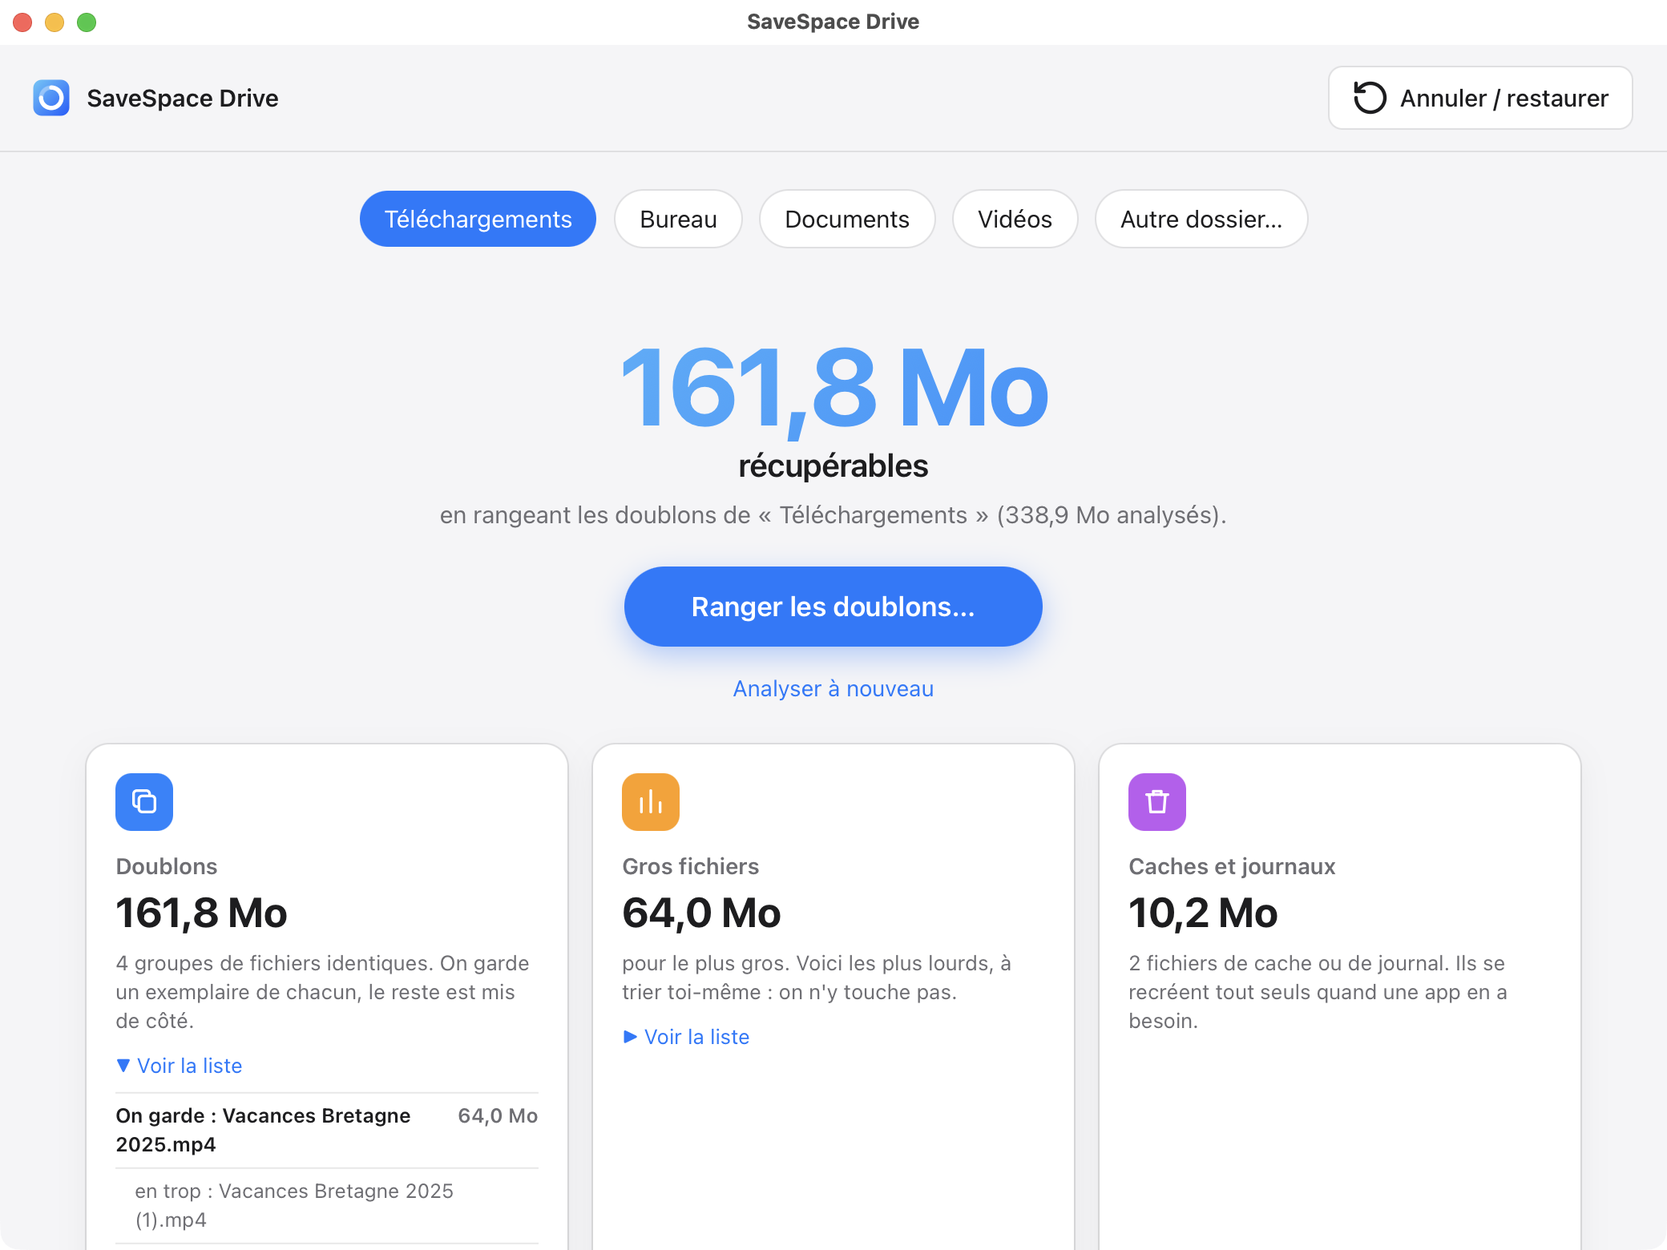
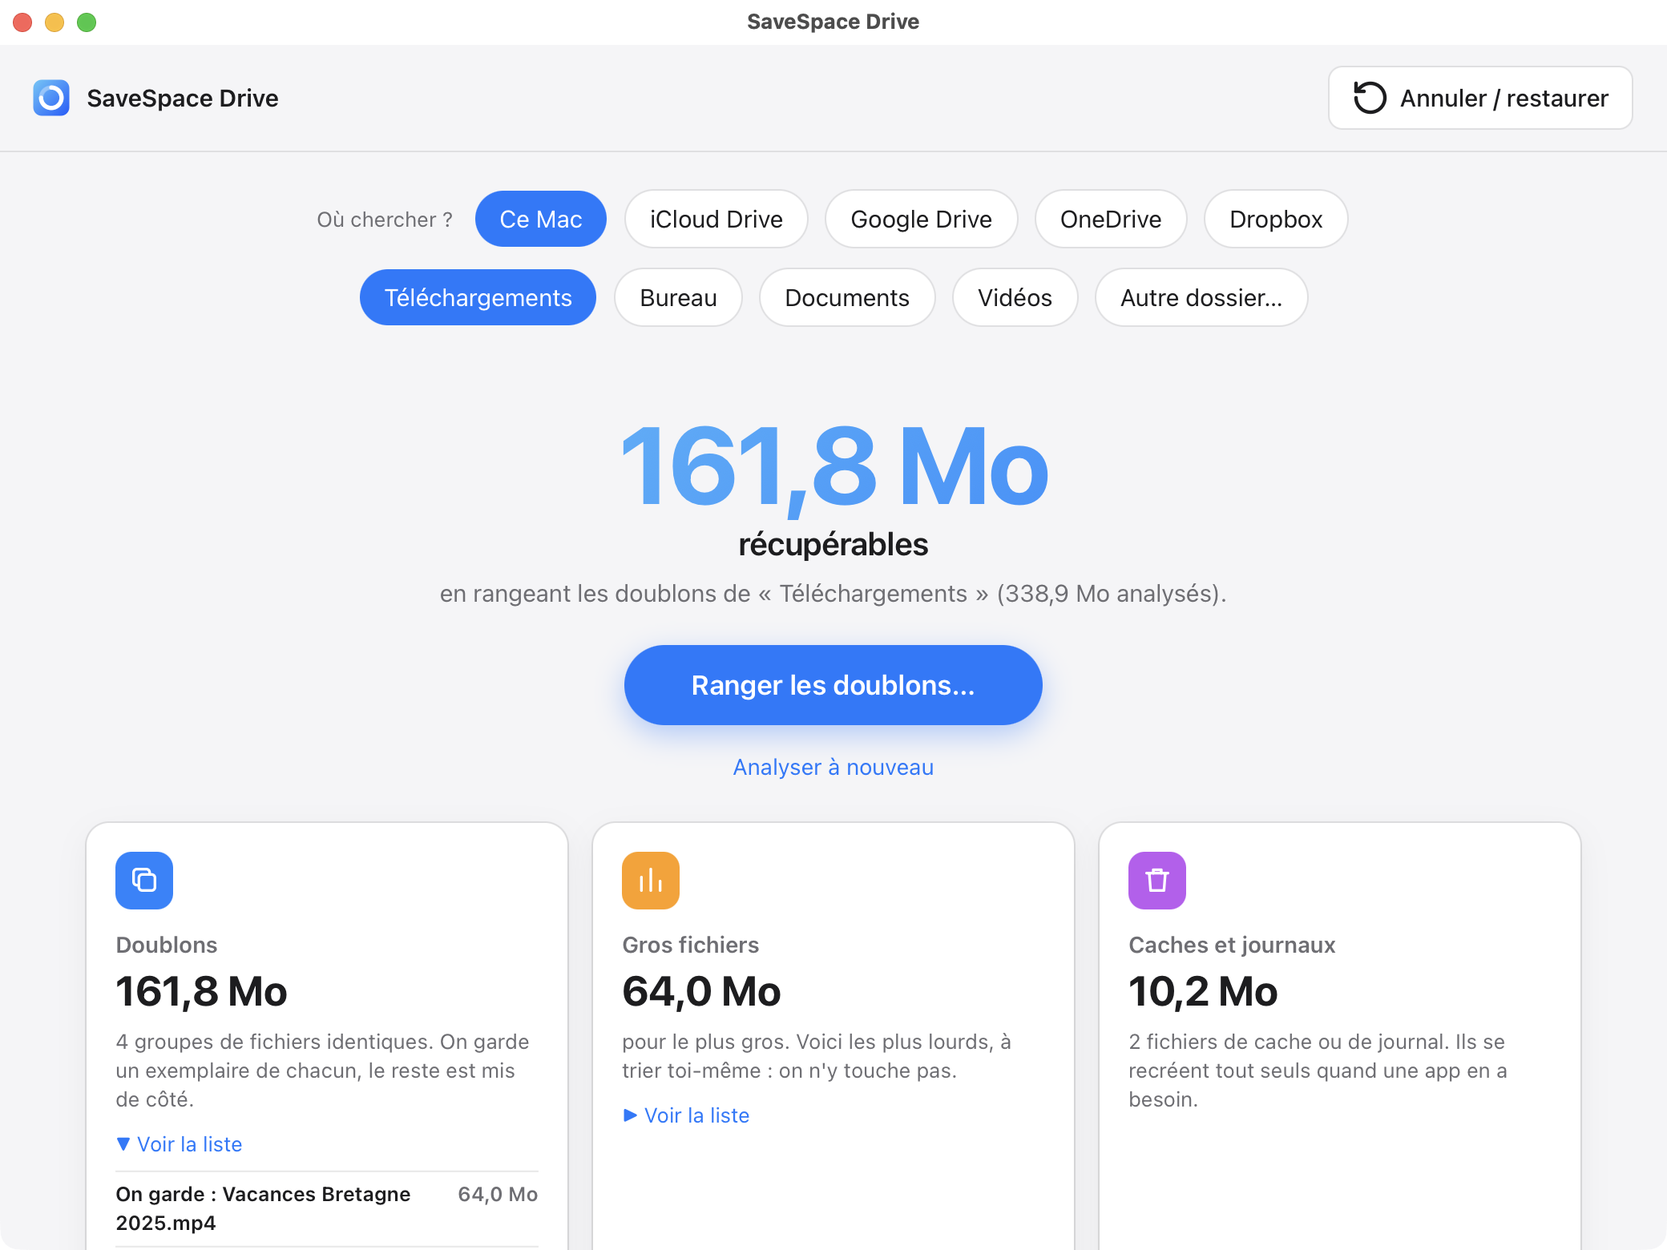
Drives : iCloud Drive, Google Drive, OneDrive, Dropbox (rclone officiel inclus)
- « Où chercher ? » : Ce Mac, iCloud Drive, Google Drive, OneDrive, Dropbox ; mêmes cartes et même confirmation.
- iCloud Drive : dossier local (seul coin de ~/Library ouvert par la garde) ; un fichier seulement dans iCloud
  n'est jamais ouvert (règle du hotfix 0.1.1) ; avertissement : mettre de côté le retire de tous les appareils.
- drives.py : connexion par le flux OAuth de rclone (client gratuit par défaut, config en 600 dans le dossier de
  l'app, sortie de rclone jamais affichée) ; analyse sans téléchargement (lsjson --hash-type md5/quickxor/dropbox
  + about) ; corbeille du service seulement, forcée par option, --max-delete = la liste exacte, liste relue
  juste avant, type sans corbeille refusé ; restaurer = lien vers la corbeille du service ; Photos/Gmail : rapport.
- paquet/construire.py : rclone v1.75.1 officiel téléchargé, SHA256 épinglé ET publié dans SHA256SUMS
  (signature PGP vérifiée), Mac arm64+amd64 réunis par lipo, Windows amd64 ; licence dans THIRD_PARTY.
- Tests : 63 verts (40 sur main 0.1.0, 44 sur 0.1.1) ; tests/mutants.py : 26/26 mutants tués.
- Captures 1 à 13 (clair/sombre) avec de fausses données ; docs/ESSAI_PROPRIETAIRE_DRIVES.md.

diff --git a/paquet/captures.py b/paquet/captures.py
@@ -1,7 +1,7 @@
 """Captures d'écran de la fenêtre (outil de développement, Mac seulement, jamais livré dans l'app).
 Tout se passe dans une MAISON DE DÉMO synthétique (HOME remplacé) : aucun fichier réel n'est lu ni déplacé.
 Usage : python paquet/captures.py DOSSIER_DEMO DOSSIER_CAPTURES"""
-import os, subprocess, sys, time
+import json, os, subprocess, sys, time
 from pathlib import Path
 
 DEMO, SORTIE = Path(sys.argv[1]).resolve(), Path(sys.argv[2]).resolve()
@@ -14,6 +14,13 @@ FICHIERS = {  # chemin : (graine, Mo) — même graine = mêmes octets = doublon
     "Downloads/Ancien Mac/Library/Caches/com.apple.Safari/Cache.db": (7, 9), "Downloads/Ancien Mac/Library/Logs/install.log": (8, 1.2),
     "Downloads/Musique/Concert.m4a": (9, 18), "Desktop/notes.txt": (10, 0.01), "Documents/CV.pdf": (11, 0.2), "Movies/film.mov": (12, 5),
 }
+ICLOUD = "Library/Mobile Documents/com~apple~CloudDocs/"
+FICHIERS.update({ICLOUD + k: v for k, v in {"Devis cuisine.pdf": (13, 0.6), "Maison/Devis cuisine (1).pdf": (13, 0.6),
+                                             "Photos/Noël.heic": (14, 3.1), "Photos/Copie de Noël.heic": (14, 3.1)}.items()})
+NUAGE = {ICLOUD + "Anciennes vidéos/Vacances 2019.mov": 900, ICLOUD + "Anciennes vidéos/Anniversaire.mov": 640}  # Mo, creux
+DRIVE = [("Photos 2023/IMG_0412.JPG", 4.2, "a"), ("Sauvegarde iPhone/IMG_0412.JPG", 4.2, "a"), ("Vidéos/Mariage Julie.mp4", 820, "b"),
+         ("Vidéos/Mariage Julie (1).mp4", 820, "b"), ("Contrat location.pdf", 1.1, "c"), ("Documents/Copie de Contrat location.pdf", 1.1, "c"),
+         ("Archives/Ancien Mac.zip", 2300, "d"), ("Musique/Concert.m4a", 18, "e")]  # faux Google Drive : (chemin, Mo, empreinte)
 
 
 def demo():
@@ -24,6 +31,10 @@ def demo():
             bloc = (bytes([graine]) * 64) * 16384  # 1 Mio déterministe par graine
             octets = int(mo * 1_000_000)
             p.write_bytes((bloc * (octets // len(bloc) + 1))[:octets])
+    for rel, mo in NUAGE.items():
+        (DEMO / rel).parent.mkdir(parents=True, exist_ok=True)
+        with open(DEMO / rel, "wb") as f:
+            f.truncate(mo * 1_000_000)  # fichier creux : « seulement dans iCloud » simulé ci-dessous
 
 
 demo()
@@ -31,7 +42,23 @@ os.environ["HOME"] = str(DEMO)  # avant tout import : Path.home() pointe sur la 
 SORTIE.mkdir(parents=True, exist_ok=True)
 import Quartz, webview  # noqa: E402
 from PyObjCTools import AppHelper  # noqa: E402
-from savespace_drive import bureau, app  # noqa: E402
+from savespace_drive import analyse, bureau, app, doublons, drives  # noqa: E402
+
+INOEUDS = {os.stat(DEMO / rel).st_ino for rel in NUAGE}  # ces fichiers se disent « seulement dans iCloud »
+analyse.dans_le_nuage = doublons.dans_le_nuage = lambda st: st.st_ino in INOEUDS
+FAUX = DEMO / "faux_rclone"  # faux Google Drive : aucun compte, aucun réseau (tests/faux_rclone.py)
+FAUX.mkdir(exist_ok=True)
+(FAUX / "faux_rclone.py").write_text((Path(__file__).resolve().parents[1] / "tests" / "faux_rclone.py").read_text())
+_run = subprocess.run
+drives.rclone = lambda: str(FAUX / "faux_rclone.py")
+drives.subprocess = type(sys)("faux_subprocess")
+drives.subprocess.TimeoutExpired, drives.subprocess.run = subprocess.TimeoutExpired, lambda a, **k: _run([sys.executable, *a], **k)
+
+
+def drive_neuf():
+    drives.conf().unlink(missing_ok=True)
+    (FAUX / "rclone.json").write_text(json.dumps({"fichiers": [{"p": c, "t": int(mo * 1_000_000), "h": h} for c, mo, h in DRIVE],
+                                                  "about": {"total": 15e9, "used": 8.0e9, "trashed": 0.4e9, "other": 5.2e9, "free": 1.8e9}}))
 
 
 def fenetre_id():
@@ -90,6 +117,35 @@ def pilote(f, s):
             photo(f"5_rangement_fait{suffixe}.png")
             f.evaluate_js("document.getElementById('restaurer').click()")
             attendre(f, "document.getElementById('titre').textContent=='Tout est revenu'")
+            f.evaluate_js("choisirLieu('icloud')")
+            photo(f"6_icloud{suffixe}.png")
+            f.evaluate_js("analyser()")
+            attendre(f, "!document.getElementById('cartes').hidden")
+            f.evaluate_js("document.querySelector('#c-doublons details').open=true")
+            photo(f"7_icloud_resultat{suffixe}.png")
+            f.evaluate_js("preparer()")
+            attendre(f, "!document.getElementById('voile').hidden")
+            photo(f"8_icloud_confirmation{suffixe}.png")
+            f.evaluate_js("fermer()")
+            drive_neuf()
+            f.evaluate_js("E.gdrive.ok=false;E.rclone=true;choisirLieu('gdrive')")
+            photo(f"9_drive_connecter{suffixe}.png")
+            f.evaluate_js("connecter()")
+            attendre(f, "document.getElementById('principal').textContent=='Analyser'")
+            f.evaluate_js("analyser()")
+            attendre(f, "!document.getElementById('cartes').hidden")
+            f.evaluate_js("document.querySelector('#c-doublons details').open=true")
+            photo(f"10_drive_resultat{suffixe}.png")
+            f.evaluate_js("preparer()")
+            attendre(f, "!document.getElementById('voile').hidden")
+            photo(f"11_drive_confirmation{suffixe}.png")
+            f.evaluate_js("document.getElementById('f-oui').click()")
+            attendre(f, "document.getElementById('titre').textContent==\"C'est fait\"")
+            photo(f"12_drive_corbeille{suffixe}.png")
+            f.evaluate_js("document.getElementById('restaurer').click()")
+            attendre(f, "!document.getElementById('ext').hidden")
+            photo(f"13_drive_recuperer{suffixe}.png")
+            f.evaluate_js("choisirLieu('mac')")
     finally:
         s.fini = True
 

diff --git a/paquet/construire.py b/paquet/construire.py
@@ -1,20 +1,57 @@
 """Construit l'app de bureau avec PyInstaller (outil existant) — à lancer sur le système visé.
 Mac : dist/SaveSpace Drive.app puis dist/SaveSpace-Drive-<version>-mac.dmg (hdiutil, fourni avec macOS).
 Windows : dist/SaveSpace Drive.exe (un seul fichier) ; l'installeur se fait ensuite avec paquet/windows.iss (Inno Setup).
+Le moteur rclone (MIT) est inclus : binaire OFFICIEL téléchargé sur downloads.rclone.org, refusé si son SHA256 diffère
+de l'empreinte épinglée ici OU de celle publiée dans SHA256SUMS. Mac : les deux puces réunies (lipo). Aucun Homebrew.
 Usage : python paquet/construire.py   (variables facultatives : VERSION=0.1.1, ARCH=universal2)"""
-import os, plistlib, shutil, subprocess, sys
+import hashlib, io, os, plistlib, shutil, subprocess, sys, urllib.request, zipfile
 from pathlib import Path
 import PyInstaller.__main__
 
 RACINE = Path(__file__).resolve().parents[1]
 ICONE, DIST, TRAVAIL = RACINE / "paquet" / "icone", RACINE / "dist", RACINE / "build"
 NOM, VERSION = "SaveSpace Drive", os.environ.get("VERSION", "0.1.1").lstrip("v")
+RCLONE = "v1.75.1"  # empreintes relevées le 04/10/2026 dans https://downloads.rclone.org/v1.75.1/SHA256SUMS (signé PGP)
[3 lines of base64/hex data omitted]
+
+
+def _lire(url, delai):  # downloads.rclone.org refuse l'agent « Python-urllib » (403 mesuré)
+    return urllib.request.urlopen(urllib.request.Request(url, headers={"User-Agent": "savespace-drive-construire"}), timeout=delai).read()
+
+
+def rclone():
+    """Le rclone officiel, vérifié, prêt à inclure : build/rclone/rclone (Mac, universel) ou rclone.exe (Windows)."""
+    base = f"https://downloads.rclone.org/{RCLONE}"
+    publiees = _lire(f"{base}/SHA256SUMS", 60).decode().splitlines()
+    dossier, win = TRAVAIL / "rclone", sys.platform == "win32"
+    dossier.mkdir(parents=True, exist_ok=True)
+    pieces = []
+    for cible in ("windows-amd64",) if win else ("osx-arm64", "osx-amd64"):
+        nom = f"rclone-{RCLONE}-{cible}"
+        octets = _lire(f"{base}/{nom}.zip", 600)
+        h = hashlib.sha256(octets).hexdigest()
+        if h != RCLONE_ZIP[cible] or f"{h}  {nom}.zip" not in publiees:
+            raise SystemExit(f"{nom}.zip : SHA256 inattendu ({h}) — rien n'est construit")
+        with zipfile.ZipFile(io.BytesIO(octets)) as z:
+            (dossier / cible).write_bytes(z.read(f"{nom}/rclone" + (".exe" if win else "")))
+        pieces.append(str(dossier / cible))
+    final = dossier / ("rclone.exe" if win else "rclone")
+    if win:
+        os.replace(pieces[0], final)
+    else:
+        subprocess.run(["lipo", "-create", "-output", str(final), *pieces], check=True)
+    final.chmod(0o755)
+    print(f"rclone {RCLONE} vérifié (SHA256 épinglé = publié) : {final}")
+    return final
 
 
 def principal():
     args = [str(RACINE / "paquet" / "lanceur.py"), "--name", NOM, "--windowed", "--noconfirm", "--clean",
             "--distpath", str(DIST), "--workpath", str(TRAVAIL), "--specpath", str(TRAVAIL), "--paths", str(RACINE / "src"),
-            "--collect-data", "savespace_drive"]  # versions_gellees.json (doctor --strict)
+            "--collect-data", "savespace_drive",  # versions_gellees.json (doctor --strict)
+            "--add-binary", f"{rclone()}{os.pathsep}.", "--add-data", f"{RACINE / 'THIRD_PARTY'}{os.pathsep}THIRD_PARTY"]
     if sys.platform == "darwin":
         args += ["--icon", str(ICONE / "SaveSpace.icns"), "--osx-bundle-identifier", "io.github.savespacedrive"]
         args += ["--target-arch", os.environ["ARCH"]] if os.environ.get("ARCH") else []

diff --git a/tests/test_drives.py b/tests/test_drives.py
@@ -1,7 +1,7 @@
 """Drives : iCloud Drive (dossier local, fichiers pas téléchargés jamais ouverts) et Google Drive / OneDrive / Dropbox
 (rclone). Hermétique : HOME jetable, faux rclone (tests/faux_rclone.py) ou vrai rclone sur un remote alias LOCAL
 (remote_local.py). Aucun vrai compte n'est jamais touché."""
-import builtins, io, json, os, shutil, stat, sys
+import builtins, io, json, os, shutil, stat, subprocess, sys, types
 from pathlib import Path
 
 import pytest
@@ -40,6 +40,7 @@ def icloud(maison, monkeypatch):
         (d / rel).parent.mkdir(parents=True, exist_ok=True)
         (d / rel).write_bytes(octets)
     monkeypatch.setattr(sys, "platform", "darwin")
+    monkeypatch.setattr(drives, "rclone", lambda: None)  # page sans chercher rclone (shutil.which et faux « darwin »)
     return d
 
 
@@ -116,14 +117,11 @@ def faux(maison, tmp_path, monkeypatch):
     d = tmp_path / "faux"
     d.mkdir()
     shutil.copy(FAUX, d / "faux_rclone.py")
-    if os.name == "nt":
-        exe = d / "rclone.cmd"
-        exe.write_text(f'@"{sys.executable}" "{d / "faux_rclone.py"}" %*\n')
-    else:
-        exe = d / "rclone"
-        exe.write_text(f"#!{sys.executable}\n" + FAUX.read_text())
-        exe.chmod(0o755)
-    monkeypatch.setattr(drives, "rclone", lambda: str(exe))
+    exe, vrai_run = str(d / "faux_rclone.py"), subprocess.run
+    monkeypatch.setenv("APPDATA", str(maison / "AppData" / "Roaming"))  # Windows : la config reste dans la maison jetable
+    monkeypatch.setattr(drives, "rclone", lambda: exe)
+    monkeypatch.setattr(drives, "subprocess", types.SimpleNamespace(  # le faux rclone est un script : lancé par Python
+        TimeoutExpired=subprocess.TimeoutExpired, run=lambda argv, **k: vrai_run([sys.executable, *argv] if argv[0] == exe else argv, **k)))
     etat = d / "rclone.json"
 
     def poser(cle="gdrive", type_="drive", **e):

diff --git a/src/savespace_drive/app.py b/src/savespace_drive/app.py
@@ -311,7 +311,7 @@ footer{text-align:center;color:var(--doux);font-size:11.5px;padding:14px 20px;di
 <h2 id="t-caches">Caches et journaux</h2><div class="valeur"></div><p></p><details><summary>Voir la liste</summary><div class="liste"></div></details></div>
 </section><div id="note"></div>
 </main>
-<footer><span>Tout se passe sur ton ordinateur : rien n'est envoyé sur Internet.</span><span>{OUTILS}</span><button class="lien" id="quitter" style="margin:0;font-size:inherit">Quitter</button></footer>
+<footer><span>Rien n'est envoyé chez nous. Un drive en ligne n'est contacté que si tu le connectes, pour lire la liste de tes fichiers.</span><span>{OUTILS}</span><button class="lien" id="quitter" style="margin:0;font-size:inherit">Quitter</button></footer>
 <div id="voile" hidden><div class="feuille" role="dialog" aria-modal="true" aria-labelledby="f-titre">
 <h1 id="f-titre"></h1><p class="sous" id="f-texte" style="margin:0 0 14px;max-width:none"></p><div class="liste" id="f-liste"></div>
 <div class="actions"><button class="bouton2" id="f-non">Annuler</button><button class="principal" id="f-oui"></button></div></div></div>

diff --git a/README.md b/README.md
@@ -1,8 +1,8 @@
 # SaveSpace Drive
 
-Retrouve de la place sur ton ordinateur : doublons, gros fichiers et caches repérés en quelques
-secondes, rangés en un clic, annulables à tout moment. 100 % local, gratuit, open source (MIT).
-Aucune donnée ne quitte ta machine.
+Retrouve de la place sur ton ordinateur, ton iCloud Drive, ton Google Drive, OneDrive ou Dropbox :
+doublons, gros fichiers et caches repérés en quelques secondes, rangés en un clic, annulables. Gratuit,
+open source (MIT). Rien n'est envoyé chez nous ; un drive en ligne n'est contacté que si tu le connectes.
 
 ![Résultat d'une analyse](docs/captures/3_resultat.png)
 
@@ -32,12 +32,29 @@ dans les Issues.
    `quarantaine`.
 4. **Annuler / restaurer** remet tout en place, à l'identique (chaque fichier vérifié par empreinte).
 
+**Où chercher ?** Ce Mac, **iCloud Drive**, **Google Drive**, **OneDrive** ou **Dropbox**.
+- iCloud Drive : comme un dossier du Mac. Attention : mettre un fichier de côté le retire aussi de ton
+  iPhone et de tes autres appareils (il revient avec « Annuler / restaurer »).
+- Google Drive, OneDrive, Dropbox : **Connecter** ouvre la page de connexion du service dans ton navigateur
+  (l'app ne voit jamais ton mot de passe). L'analyse lit seulement la liste des fichiers et les empreintes
+  calculées par le service : **rien n'est téléchargé**. Les doublons vont dans la **corbeille du service**
+  (récupérables 30 jours sur son site), jamais effacés pour de bon. Le moteur gratuit rclone est inclus.
+
+![Google Drive : place récupérable](docs/captures/10_drive_resultat.png)
+
 ## Limites, en clair
 - La quarantaine reste sur le même disque : la place n'est libérée que quand tu la vides toi-même.
 - Les fichiers « seulement dans iCloud » (Bureau et Documents synchronisés, iCloud Drive) sont ignorés : jamais
   ouverts, donc jamais téléchargés ; ils sont comptés à part. Seuls les fichiers présents sur le Mac sont examinés.
 - Les gros fichiers et les caches sont montrés, jamais supprimés : à toi de décider.
 - Le dossier personnel entier et la racine du disque sont refusés (trop risqué en un clic).
+- Google Drive, OneDrive, Dropbox : essayés seulement avec un faux service et un disque local (tests) ;
+  **jamais encore sur un vrai compte**. « Annuler » ne peut pas les remettre en place : on te donne le lien de
+  la corbeille du service, c'est là que tu restaures. Les Google Docs/Sheets n'ont pas d'empreinte : jamais
+  comptés comme doublons. Deux fichiers au même nom au même endroit (Drive le permet) ne sont jamais proposés.
+- Google Photos et Gmail : leur place est affichée (rapport seulement), on n'y touche pas.
+- La place d'un drive n'est libérée que quand sa corbeille est vidée (sur son site, ou seule après 30 jours).
+- L'app pèse plus lourd (≈ 220 Mo sur Mac) : elle contient le moteur rclone officiel pour les deux puces.
 - En ligne de commande, `doublons` garde encore le premier nom par ordre alphabétique (l'app, elle,
   garde l'original).
 

diff --git a/docs/APP_BUREAU.md b/docs/APP_BUREAU.md
@@ -13,7 +13,7 @@
 **Le jour de la publication (propriétaire) :** dépôt fixé à `josslignio/savespace-drive` (04/10) — créer ce dépôt PUBLIC ; créer une Release GitHub avec le .dmg (et le .exe) en pièces jointes ; créer le compte Partner Center individuel, réserver le nom, renseigner les trois variables, lancer le workflow, soumettre le .msix (la capacité `runFullTrust` demande une courte justification : « application de bureau »).
 
 **Ce que c'est :** la même page qu'APP1, dans une vraie fenêtre (pywebview : WebKit sur Mac, Edge WebView2 sur Windows), empaquetée par PyInstaller. Aucune nouvelle logique de nettoyage. Un écran, une grande action : le chiffre « récupérables », trois cartes (doublons, gros fichiers, caches), une confirmation qui liste exactement ce qui bouge, « Annuler / restaurer » toujours visible en haut. Police du système, clair/sombre automatique, rien chargé depuis Internet. Inspiré de CleanMyMac (un chiffre, un bouton), Clean Me (catégories chiffrées), Czkawka (liste avant d'agir).
-Les outils externes (czkawka, rclone, osxphotos) sont facultatifs : la fenêtre n'utilise que l'analyse Python intégrée ; osxphotos est caché hors Mac.
+Les outils externes czkawka et osxphotos sont facultatifs ; osxphotos est caché hors Mac. **Drives (branche drives) :** « Où chercher ? » propose Ce Mac, iCloud Drive (dossier local ; un fichier seulement dans iCloud n'est jamais ouvert), Google Drive, OneDrive et Dropbox (`drives.py` : rclone officiel inclus dans l'app par `construire.py`, SHA256 vérifié ; analyse par `rclone lsjson --hash-type` + `rclone about`, rien de téléchargé ; corbeille du service seulement, forcée par option, `--max-delete` = la liste exacte, liste relue juste avant ; config et jeton dans le dossier de l'app, jamais affichés). Essai propriétaire : `docs/ESSAI_PROPRIETAIRE_DRIVES.md`.
 
 **Construire :** `python paquet/construire.py` (Mac : .app + .dmg dans `dist/`). Windows : `.github/workflows/build.yml` construit le .exe, l'installeur Inno Setup, le .msix (Store) et le .dmg sur une étiquette `v*` (artefacts, rien n'est publié).
 

diff --git a/docs/ESSAI_PROPRIETAIRE_DRIVES.md b/docs/ESSAI_PROPRIETAIRE_DRIVES.md
@@ -1,0 +1,20 @@
+# Essayer les drives sur tes vrais comptes (lecture seule d'abord)
+
+1. Quitte l'ancienne SaveSpace Drive si elle est ouverte, puis ouvre la nouvelle (version de la branche `drives`).
+2. **iCloud Drive** : clique « iCloud Drive » puis **Analyser**. C'est une lecture seule. En bas s'affiche
+   « N fichiers sont seulement dans iCloud : ignorés, rien n'a été téléchargé ». Vérifie que l'espace libre du Mac
+   n'a pas baissé. **Ne clique pas sur « Ranger »** pendant ce premier essai.
+3. **Google Drive** : clique « Google Drive », puis **Connecter Google Drive**. Ton navigateur s'ouvre sur la page
+   de Google. Elle parle de « rclone » : c'est le moteur gratuit inclus dans l'app, c'est normal. Accepte, puis
+   reviens dans l'app.
+4. Clique **Analyser**. Seule la liste des fichiers est lue, rien n'est téléchargé. Note les chiffres : « Espace
+   utilisé X sur Y », la place récupérable, la corbeille, Photos et Gmail. Compare « Espace utilisé » avec
+   https://one.google.com/storage : ce doit être le même ordre de grandeur.
+5. Ouvre « Voir la liste » des doublons et vérifie 2 ou 3 paires sur drive.google.com. Ce sont bien les mêmes
+   fichiers, et celui qu'on garde est le bon.
+6. Seulement ensuite, si tu veux : **Mettre les doublons à la corbeille…**. La liste exacte s'affiche.
+   Commence par un petit essai (réponds « Annuler » si la liste est longue). Après « Oui », ouvre la corbeille
+   avec le lien affiché et restaure un fichier, pour voir que ça marche.
+7. Pour déconnecter : supprime le fichier `~/Library/Application Support/SaveSpace Drive/rclone.conf`. Retire aussi
+   l'accès sur https://myaccount.google.com/permissions (ligne « rclone »).
+8. Rapporte les chiffres des étapes 2 et 4 et ce qui t'a surpris. OneDrive et Dropbox se testent de la même façon.

diff --git a/THIRD_PARTY/CREDITS.md b/THIRD_PARTY/CREDITS.md
@@ -1,7 +1,9 @@
 # Crédits tiers
 
 - czkawka_cli — MIT
-- rclone — MIT
+- rclone — MIT. Le binaire officiel v1.75.1 est inclus dans l'app (Mac et Windows) pour Google Drive, OneDrive
+  et Dropbox ; licence : `rclone-COPYING.txt`. Téléchargé sur downloads.rclone.org, SHA256 vérifié contre
+  SHA256SUMS (signature PGP de Nick Craig-Wood vérifiée le 04/10/2026).
 - osxphotos — MIT
 - gdu — MIT
 - mac-cleaner-cli — MIT
